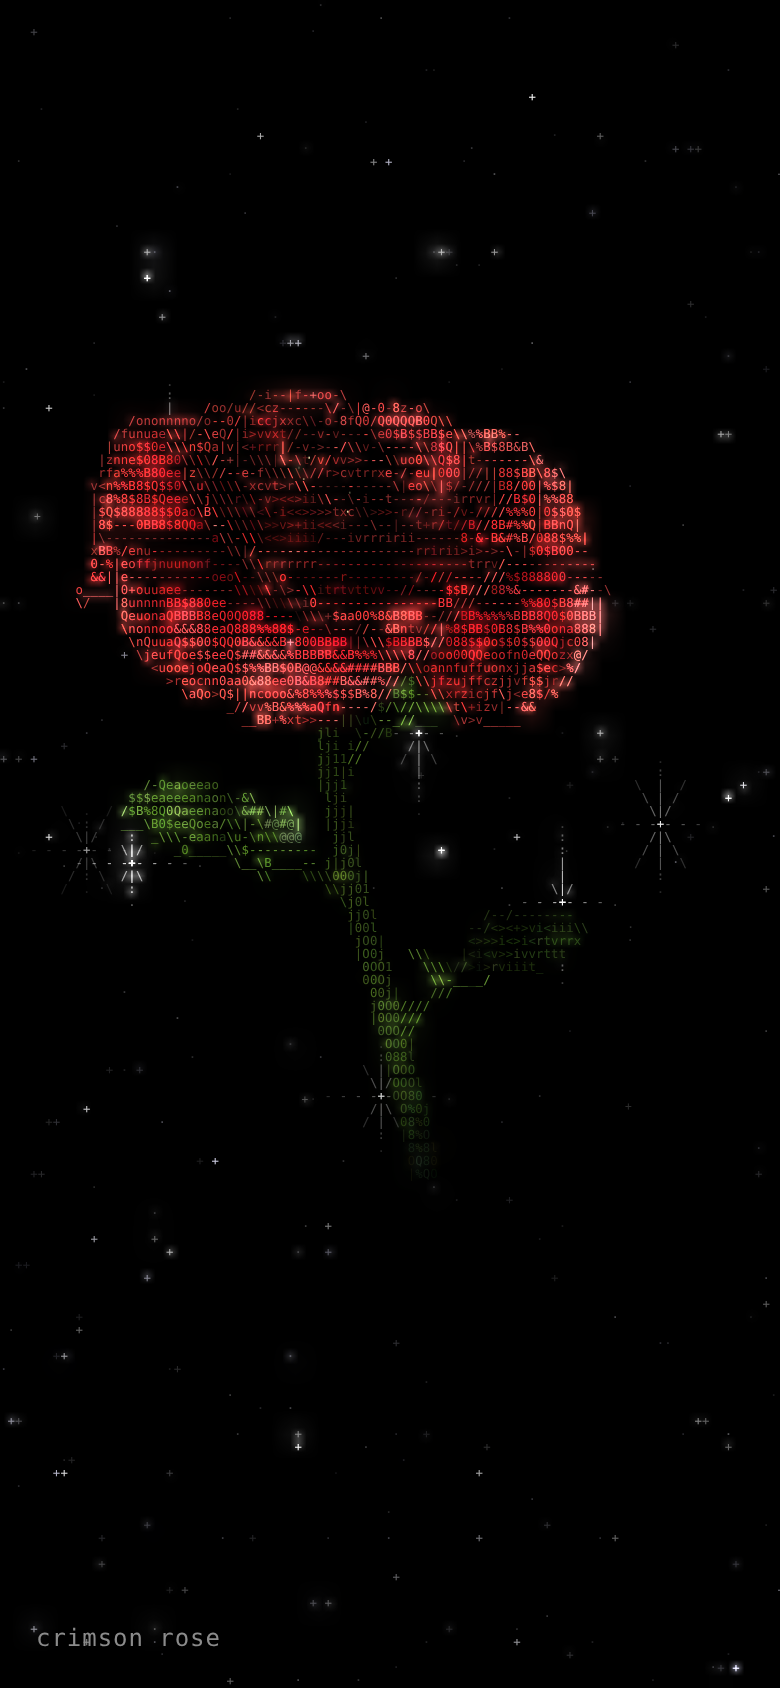
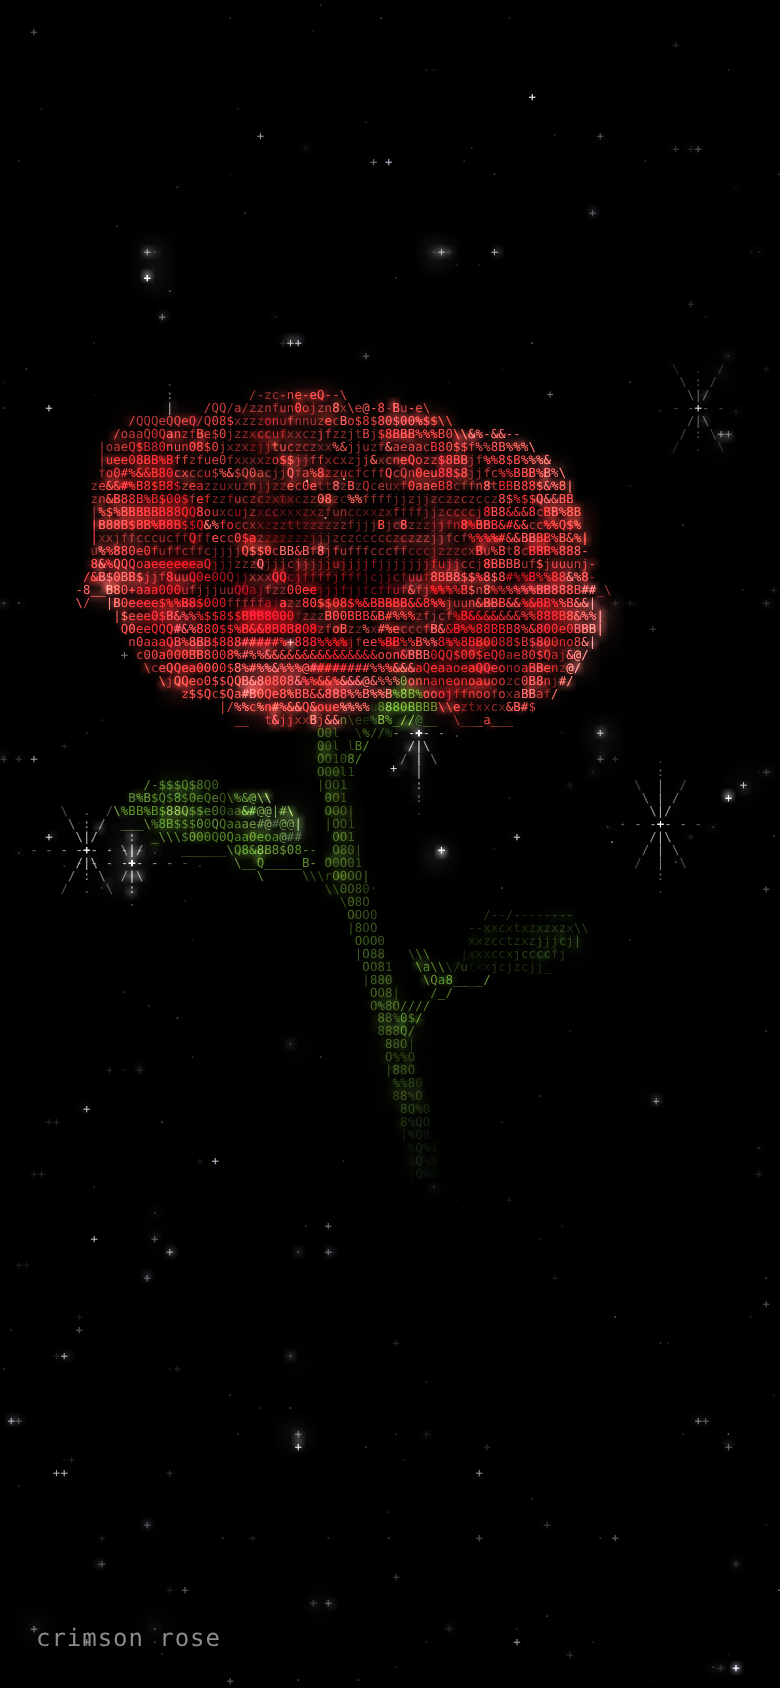
Strokes only on the outer outline; no dash or dot glyphs inside surfaces

diff --git a/bloom.js b/bloom.js
@@ -949,10 +949,10 @@ const fg = document.createElement('canvas'), fctx = fg.getContext('2d');
 const g1 = document.createElement('canvas'), g1x = g1.getContext('2d');
 const g2 = document.createElement('canvas'), g2x = g2.getContext('2d');
 
-const RAMP = '.:-=+<>ivrtxzcjfunoaeQ0$8B%&#@';
+const RAMP = 'ivrtxzcjfunoaeQ0$8B%&#@';
 const DISK = 'o0@*Oo';
 const ANTH = '@0o';
-const STEMR = ':;!i1lj0O8%Q$8B';
+const STEMR = 'ijl10O8%Q$8B';
 const BEARD = "\";:'^~,";
 const PITCH = .2;
 const SPARK = ['+', '+', '.', '·', "'", '+'];
@@ -1207,6 +1207,13 @@ function frame(now) {
         if (model) { tx = V[0] * a + V[1] * bb + V[2] * c; ty = V[3] * a + V[4] * bb + V[5] * c; } else { tx = a; ty = bb; }
         isStroke = true;
       } else if (nz < (kind === 5 ? (was ? .55 : .45) : (was ? .28 : .2))) { tx = -ny; ty = nx; isStroke = true; }
+      // strokes only on the outer outline, where the flower meets the sky; inside, surfaces stay solid letters
+      if (isStroke) {
+        const c0 = idx % cols;
+        const open = (c0 > 0 && win[idx - 1] < 0) || (c0 < cols - 1 && win[idx + 1] < 0) ||
+          (idx >= cols && win[idx - cols] < 0) || (idx + cols < cols * rows && win[idx + cols] < 0);
+        if (!open) isStroke = false;
+      }
       if (isStroke) {
         cls = 2;
         const dx = tx, dy = -ty, ang = Math.atan2(Math.abs(dy), Math.abs(dx));

diff --git a/README.md b/README.md
@@ -61,7 +61,7 @@ Colors come from 32 palette families (crimson, midnight, ocean, saucer, peppermi
 
 1. **Genome** : a seeded RNG builds a description of the plant. This covers the species, petal layers (count, length, width, opening angles, cup, curl, ruffle, tip shape, timing), centers, sepals, leaves, the stem curve, head tilt and the sky.
 2. **Geometry** : on every frame each petal is rebuilt as a parametric surface. The spine is integrated from an angle profile that blends between the closed bud and the open flower, so blooming is a real shape change and not a scale. Leaves, stem (a Bézier tube), stamens and disks are made the same way. Petals can carry veins, crinkles, ruffles, fringes, blotches, stripes, beards, speckles and dew. Thin petals and leaves glow when the light is behind them. Each petal has its own slight tone. Stems and leaves are always green, in a softer shade chosen to suit the flower: yellow-greens for warm blooms, blue-greens for cool ones and muted greens for pale ones. An adaptive point budget keeps very full flowers smooth.
-3. **Rendering** : surface points are projected into a character grid with a z-buffer. Lit surfaces get letters from a density ramp. Petal rims and silhouettes get `/ \ | _ -` based on the edge direction on screen. A two-pass downscaled copy of the frame adds the glow.
+3. **Rendering** : surface points are projected into a character grid with a z-buffer. Surfaces get solid letters from a density ramp. The outer outline, where the flower meets the sky, gets `/ \ | _ -` based on the edge direction on screen. A two-pass downscaled copy of the frame adds the glow.
 4. **Sky** : stars sit on the same character grid as the flower as `.` and `+` glyphs, some in pairs, each twinkling at its own rate. The sky stays black while the plant forms and brightens step by step with the bloom. Up to 10 flare stars at a time flash up around the plant for half a second to a second, built only from characters: a `|` ray, `\` and `/` diagonals, a dashed `-` arm and a `+` core.
 5. **Timeline** : faint `+` dust marks where the plant will appear, and a drawing light climbs the stem with sparks. Leaves unfold, the bud forms and starts opening in one continuous motion, outer layers first, and then the flower turns and breathes while pollen drifts and the odd petal falls.
 
